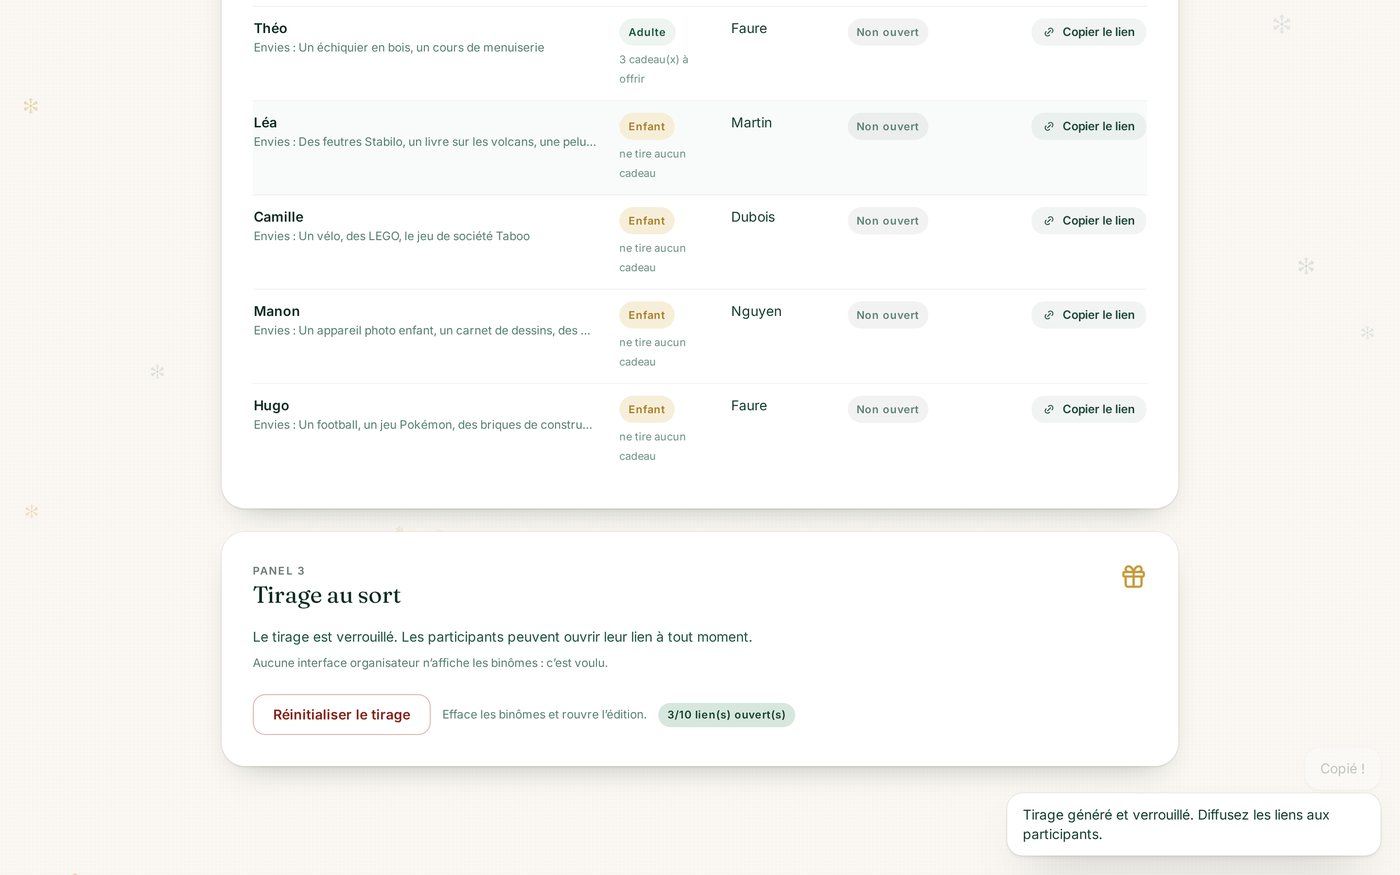
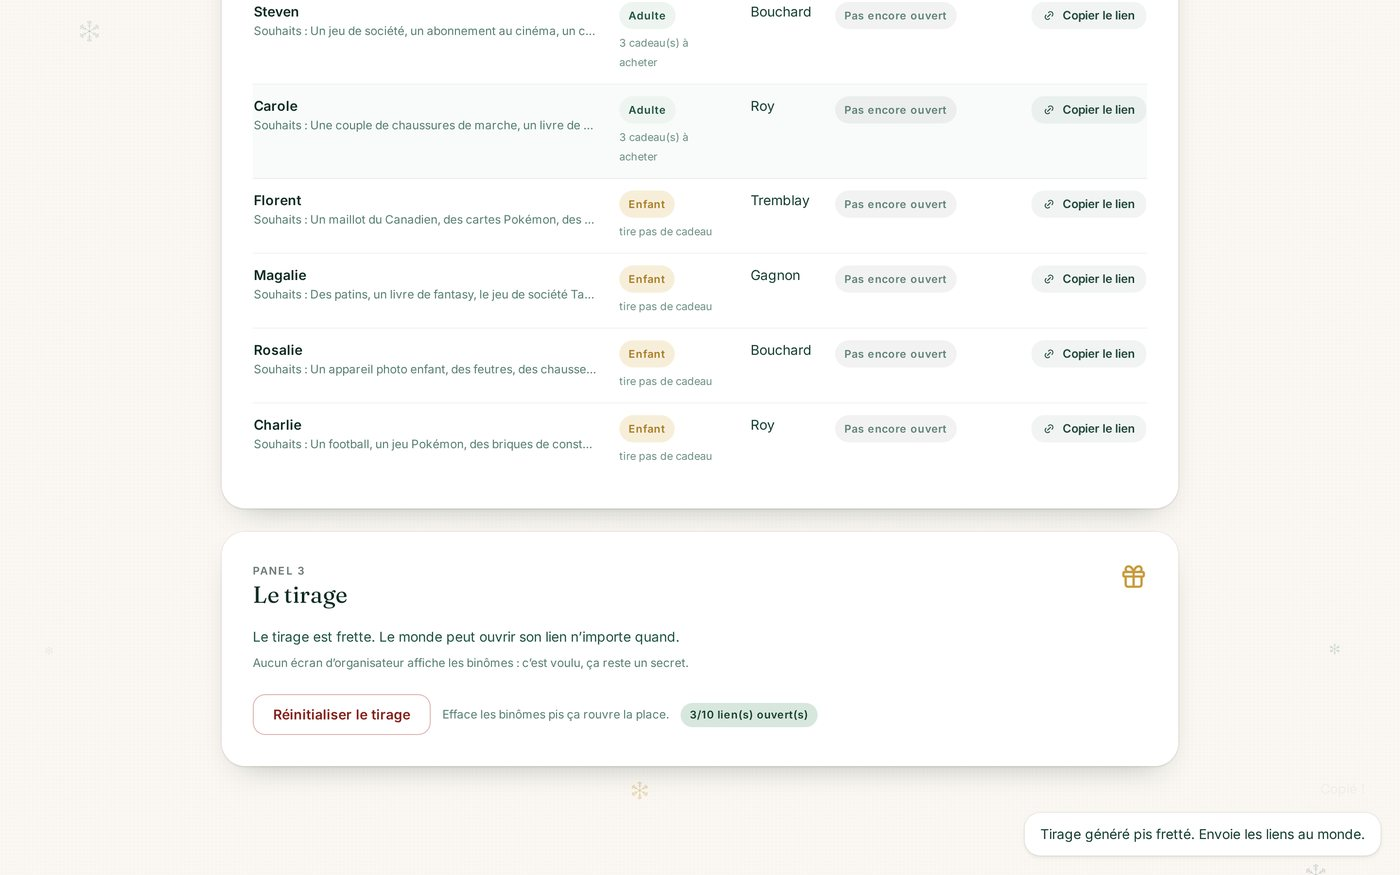
docs: gallery re-shot for the Quebec French copy; CAD examples + addendum
- docs/screenshots/*.jpg + both GIFs regenerated against the container, so the README shows
  'TEMPS DES FETES' / 'Regles pis quotas' / 'Le monde participant' / 'Fretter' and
  'Bonjour Mario' with '25 $ par personne, taxes incluses'
- README: fr-CA + CAD up top, Quebec copy called out in the UX notes, updated status strings
- PLAN.md: Quebec/CAD addendum (register, 'frette' vocabulary, softened errors, locale,
  currency, tooling, and the deliberate limit on how far the joual goes) plus a
  re-verification entry: 49 tests, ACCEPTANCE: PASS, 118/118 key symmetry, no euro byte,
  no mobile overflow, translated 401/429 copy

diff --git a/PLAN.md b/PLAN.md
@@ -232,9 +232,10 @@ Requested after the original spec, and implemented in `static/index.html`:
    (`animation-delay: index * 120ms`). Everything is CSS-only and collapses under
    `prefers-reduced-motion: reduce`.
 4. **French by default, English on request.** Every string lives in an `I18N.fr` / `I18N.en`
-   table; `lang="fr"` is the default, the FR/EN segmented control in the header switches both
+   table; `lang="fr-CA"` is the default, the FR/EN segmented control in the header switches both
    views, the choice persists in `localStorage`, and `<html lang>` follows. Dates use
-   `Intl.DateTimeFormat` with `fr-FR` / `en-GB`. Backend messages stay exactly as specified
+   `Intl.DateTimeFormat` with `fr-CA` / `en-CA` (see the Québécois addendum below). Backend
+   messages stay exactly as specified
    (English `detail` strings); the frontend maps the four known failure details to the current
    language so the organizer's error banner is never half-translated.
 
@@ -323,13 +324,30 @@ untouched; everything below is additive and lives in `static/index.html` plus `G
 | Feedback | Toast stack (`#toasts`, `aria-live="polite"`) for saves, copies, draw results and rate limits; the inline notice/banner pair was replaced by one persistent, dismissible `adminError` block so a failure is never lost when the view re-renders. |
 | Login | Busy state ("Vérification…"), disabled until a password is typed, and the server's `429`/lockout is shown as the remaining wait instead of a bare "wrong password". |
 | Rules | Live "total gifts to prepare" row per target group; Save disabled until something actually changed (`rulesDirty` chip); character counters on title/budget; quota `max` read from the server. |
-| Feasibility | The engine's necessary conditions are mirrored client-side (`warnings`), so an impossible quota is explained **before** the draw is attempted, and "Generate" is blocked with "Corrigez d'abord les alertes ci-dessus". The server still validates independently. |
+| Feasibility | The engine's necessary conditions are mirrored client-side (`warnings`), so an impossible quota is explained **before** the draw is attempted, and "Generate" is blocked with « Régle les alertes en haut avant ». The server still validates independently. |
 | Draw | `confirm()` before locking (states the gift count and that it locks the rules), `409` handled as "already locked", and the locked panel counts opened links (`3/10 lien(s) ouvert(s)`). |
-| Roster | Family-group `datalist` + clickable household filter chips with counts; per-row "n cadeau(x) à offrir" / "ne tire aucun cadeau"; wishlist preview truncated with `title`; relative "Consulté · il y a 5 minutes" (full timestamp in `title`); empty-roster guidance; **Copy all links** (name, role, household, URL) with a fallback for insecure origins. |
-| Participant | PENDING page checks again automatically (25 s) and offers a manual "Vérifier à nouveau"; a toast announces the switch to READY; the reveal is remembered per link in `sessionStorage` so a refresh doesn't replay the surprise; "Copier ma liste"; wishlist autosave (1.2 s debounce) with a "Non enregistré" chip and Ctrl/⌘+Enter to save now. |
+| Roster | Family-group `datalist` + clickable household filter chips with counts; per-row « {n} cadeau(s) à acheter » / « tire pas de cadeau »; wishlist preview truncated with `title`; relative « Consulté · il y a 5 minutes » (`fr-CA`, full timestamp in `title`); empty-roster guidance; **Copy all links** (name, role, household, URL) with a fallback for insecure origins. |
+| Participant | PENDING page checks again automatically (25 s) and offers a manual « Vérifier encore »; a toast announces the switch to READY; the reveal is remembered per link in `sessionStorage` so a refresh doesn't replay the surprise; "Copier ma liste"; wishlist autosave (1.2 s debounce) with a « Pas enregistré » chip and Ctrl/⌘+Enter to save now. |
 | Limits | `GET /api/limits` publishes the Pydantic caps; the SPA binds `maxlength` and counters to them, and surfaces `default_password: true` as a visible organizer warning. |
 | Auth UX | The browser keeps the **session token** (`sessionStorage.ge_admin_token`) rather than the password; a `401` anywhere clears it and drops back to the gate with an "expired" toast. |
 | i18n | Every new string exists in FR and EN (the two tables stay key-symmetric; audited by script on each pass). FR remains the default. |
+
+## Québécois French and CAD (addendum)
+
+The FR table was rewritten in **Quebec French** (`fr-CA`), not metropolitan French, and all money
+is expressed in **Canadian dollars**. Keys are unchanged, and the FR/EN tables are audited to stay
+key-symmetric (118 keys each).
+
+| Aspect | What changed |
+|---|---|
+| Register | Warm spoken Québécois for the friendly copy: « Règles pis quotas », « Le monde participant », « Le monde que tu vas gâter », « Ouvre donc ça », « même toé », « Garde-le pour toé », « Ça s'en vient, repasse tantôt ! ». |
+| Lock vocabulary | `state.locked` → « Tirage fretté », the header button → « Fretter », « Générer pis fretter le tirage ». (« fretté » is what a Quebecer says for a locked file/account.) |
+| Softened errors | « Le tirage a capoté », « Là, c'est pas faisable avec les familles pis les quotas d'astheure », « Mot de passe pas correct. », « Réessa dans {s} seconde(s). » |
+| Removed Gallicisms | « Liste d'envies » → « Liste de souhaits »; « pull bleu marine » → « tuque en laine / patins / jeu de société »; « groupe familial » → « Famille »; household example « Martin » → « Tremblay ». |
+| Locale | `locale()` returns `fr-CA` (and `en-CA`), so timestamps and the relative chip format as « il y a 5 minutes » with the 24-hour clock; `<html lang>` is `fr-CA`. |
+| Currency | No amount field exists in the schema — money only lives in the free-text `budget_note`. Every default, placeholder and demo value now uses CAD: « Ex. 25 $ par personne, taxes incluses », demo note « 25 $ par personne, taxes incluses — les cadeaux maison, c'est correct », EN placeholder « e.g. $25 CAD each, taxes included ». `€` no longer appears anywhere in the repo. |
+| Tooling | `tools/seed_demo.py` seeds a Quebec family (Tremblay / Gagnon / Bouchard / Roy, wishlists with tuques, mitaines, raquettes, chaussettes à orignaux); `tools/verify_acceptance.py` uses Quebec households (Tremblay, Gagnon, Bouchard, Roy, Ouellet) and a « 25 $ par personne » budget; `tests/test_api.py` fixtures use `25 $ maximum`. |
+| Deliberate limit | The technical/warning copy stays explicit (« mais y en a juste {available} en dehors de sa propre famille ») rather than full joual: an error message still has to be unambiguous, and no vulgarisms are used. |
 
 ## Verification log
 
@@ -414,3 +432,23 @@ mounted) was re-audited with `tools/verify_acceptance.py` → `ACCEPTANCE: PASS`
 (30 rows, 0 same-family pairings, no leak in admin state, `viewed_at` flips, `400 400 400`
 while locked), and the container-served page was driven through Playwright (FR participant view,
 reveal animation, 3 recipient cards).
+
+### Re-verification after the Québécois / CAD pass — 2026-11-12
+
+* `bash run_tests.sh` → **49 passed** (currency fixture is now `25 $ maximum`).
+* `python tools/verify_acceptance.py` against the rebuilt container → **ACCEPTANCE: PASS**, with
+  the Quebec households seeded by the tool (Tremblay, Gagnon, Bouchard, Roy, Ouellet):
+  `30` assignments, `0` self/same-family pairings, `ADULT receives [1]`, `CHILD receives [2]`,
+  `ADULT gives [0, 3]`, `CHILD gives [0]`, no assignment vocabulary in `GET /api/admin/state`,
+  `viewed_at: None -> 2026-11-13T00:02:15+00:00`, and `400 400 400` while locked.
+* i18n audit script: FR and EN tables are key-symmetric (118 keys each), every `t('…')` used in
+  the markup exists in both, and no `€` byte remains in the repository.
+* Playwright re-shoot of the whole gallery (15 stills + the two GIFs) against the container, so
+  the README media shows the Québécois copy — header « TEMPS DES FÊTES », « Règles pis quotas »,
+  « Le monde participant », « Fretter », participant card « Bonjour Mario » /
+  « Le monde que tu vas gâter » / « Ses souhaits » with « 25 $ par personne, taxes incluses ».
+* Repeated wrong password in the browser now reads « Mot de passe pas correct. » and, once the
+  limiter trips, « Trop de demandes. Réessa dans 300 seconde(s). » (previously the raw
+  `Unauthorized` detail). Mobile (390 px) still has no horizontal overflow:
+  `documentElement.scrollWidth == window.innerWidth == 390` on both the participant and the
+  organizer views.

diff --git a/README.md b/README.md
@@ -4,7 +4,8 @@ Configurable Secret Santa for a big family: role-based draw quotas (adult / chil
 exclusions, one private UUID link per person, and an organizer who **never sees the pairings**.
 
 FastAPI + SQLite backend, single-page frontend (Tailwind CDN + Alpine.js CDN, no build step).
-UI is **French by default** with a one-click FR/EN switch.
+UI is **Québec French by default** (`fr-CA`) with a one-click FR/EN switch, and every amount is
+Canadian dollars.
 
 Spec and the list of deliberate deviations: [`PLAN.md`](PLAN.md).
 
@@ -47,8 +48,8 @@ ADMIN_PASSWORD=admin DB_PATH=$PWD/data/exchange.db \
    (compared case/whitespace-insensitively) can never draw each other. Family chips let you filter
    the table; **Copy all links** puts every private link on the clipboard in one click.
 3. **Panel 3 — Generate & lock.** The matching engine deals the gifts and locks the event.
-   Statuses show only whether a link was opened ("Consulté · il y a 5 minutes" / "Non ouvert"),
-   never who buys what.
+   Statuses show only whether a link was opened (« Consulté · il y a 5 minutes » /
+   « Pas encore ouvert »), never who buys what.
 4. Each person opens their own link, unwraps the gift card, and can edit their wishlist at any
    time — it autosaves, even after the draw is locked.
 5. **Reset draw** wipes the pairings and the opened-markers and reopens editing.
@@ -85,6 +86,9 @@ ADMIN_PASSWORD=admin DB_PATH=$PWD/data/exchange.db \
 
 UX details worth knowing:
 
+* **The French is Québécois** (`fr-CA`): « Règles pis quotas », « Le monde que tu vas gâter »,
+  « Fretter le tirage », « Ouvre donc ça », and dates like « il y a 5 minutes ». Money is Canadian
+  dollars (« 25 $ par personne, taxes incluses »); the English switch says `$25 CAD`.
 * **Nothing is destructive without a confirm**, and every failure keeps its message on screen
   (wrong password, rate limit, unsolvable roster) with a translated explanation, not a raw
   `detail` string.
